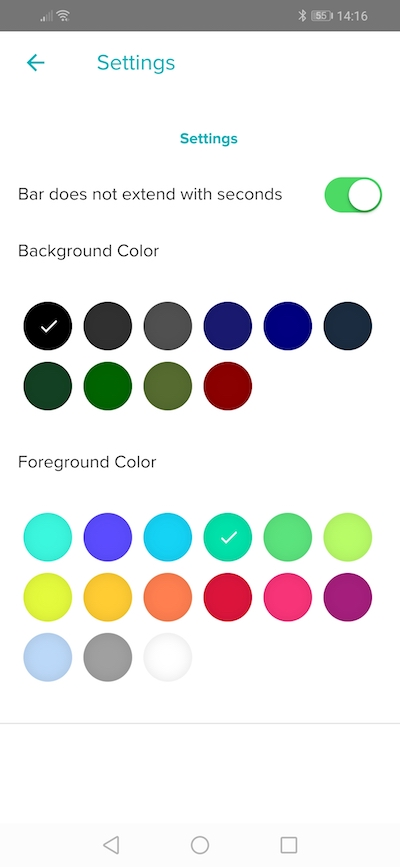
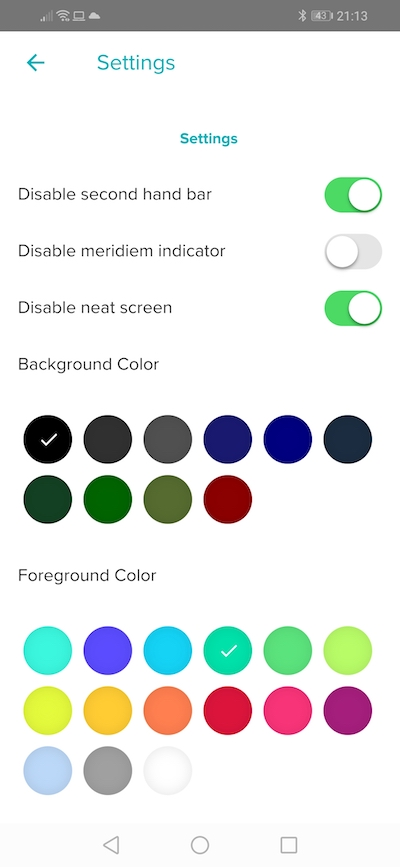
Add "neat" screen (#6)

diff --git a/app/index.ts b/app/index.ts
@@ -7,12 +7,14 @@ import {BodyPresenceSensor} from "body-presence";
 import {HeartRateSensor} from "heart-rate";
 import {today} from "user-activity";
 import * as messaging from "messaging";
+import {display} from "display";
 
 // Update the clock every minute
 clock.granularity = "seconds";
 
 // Get a handle on the <text> element
 const rootElement = document.getElementById("root") as ContainerElement;
+const backgroundElement = document.getElementById("background") as ContainerElement;
 const hoursElement = document.getElementById("hours") as TextElement;
 const minsElement = document.getElementById("minutes") as TextElement;
 const ampmElement = document.getElementById("ampm") as TextElement;
@@ -26,7 +28,11 @@ const calsElement = document.getElementById("cals") as TextElement;
 const backgroundElements = document.getElementsByClassName("background");
 const coloredElements = document.getElementsByClassName("colored");
 
+const hiddenElements = document.getElementsByClassName("hide");
+
+let enableNeat = true;
 let lastDate: Date;
+let foregroundColor = 'fb-aqua';
 
 function updateSecondHand(date: Date) {
     let middle = rootElement.width / 2;
@@ -36,6 +42,15 @@ function updateSecondHand(date: Date) {
     }
     sepElement.x1 = middle - secondHand;
     sepElement.x2 = middle + secondHand;
+}
+
+function toggleDisplay(on: boolean) {
+    hiddenElements.forEach(value => {
+        ((value as unknown) as Styled).style.opacity = on ? 1 : 0;
+    });
+    coloredElements.forEach(value => {
+        ((value as unknown) as Styled).style.fill = on ? foregroundColor : 'white';
+    })
 }
 
 // Update the <text> element every tick with the current time
@@ -76,24 +91,41 @@ if (me.permissions.granted("access_activity")) {
     body.start();
 }
 
-messaging.peerSocket.onmessage = function (evt) {
-    if (evt.data.key === "backgroundColor") {
-        backgroundElements.forEach(value => {
-            ((value as unknown) as Styled).style.fill = evt.data.value;
-        });
-    }
-    if (evt.data.key === "foregroundColor") {
-        coloredElements.forEach(value => {
-            ((value as unknown) as Styled).style.fill = evt.data.value;
-        });
-    }
-    if (evt.data.key === "disableSeconds") {
-        clock.granularity = evt.data.value ? "minutes" : "seconds";
-        if (evt.data.value) {
-            updateSecondHand(lastDate);
-        }
-    }
-    if (evt.data.key === "disableMeridiem") {
-        ampmElement.style.opacity = evt.data.value ? 0 : 100;
+messaging.peerSocket.onmessage = evt => {
+    switch (evt.data.key) {
+        case "backgroundColor":
+            backgroundElements.forEach(value => {
+                ((value as unknown) as Styled).style.fill = evt.data.value;
+            });
+            break;
+        case "foregroundColor":
+            foregroundColor = evt.data.value;
+            coloredElements.forEach(value => {
+                ((value as unknown) as Styled).style.fill = evt.data.value;
+            });
+            break;
+        case "disableSeconds":
+            clock.granularity = evt.data.value ? "minutes" : "seconds";
+            if (evt.data.value) {
+                updateSecondHand(lastDate);
+            }
+            break;
+        case "disableMeridiem":
+            ampmElement.style.opacity = evt.data.value ? 0 : 1;
+            break;
+        case "disableNeat":
+            enableNeat = !evt.data.value;
+            toggleDisplay(evt.data.value);
+            break;
     }
 };
+
+display.onchange = () => {
+    enableNeat && toggleDisplay(false);
+};
+
+backgroundElement.onmouseup = () => {
+    toggleDisplay(true);
+};
+
+toggleDisplay(true);

diff --git a/settings/index.tsx b/settings/index.tsx
@@ -5,11 +5,15 @@ function settings(props: any) {
                 title={<Text bold align="center">Settings</Text>}>
                 <Toggle
                     settingsKey="disableSeconds"
-                    label="Bar does not extend with seconds"
+                    label="Disable second hand bar"
                 />
                 <Toggle
                     settingsKey="disableMeridiem"
-                    label="Disable meridiem indicator (12h format only)"
+                    label="Disable meridiem indicator"
+                />
+                <Toggle
+                    settingsKey="disableNeat"
+                    label="Disable neat screen"
                 />
                 <Text align="left">Background Color</Text>
                 <ColorSelect

diff --git a/app/time.ts b/app/time.ts
@@ -14,6 +14,10 @@ const weekdaysTable: {[k: string]: string[]} = {
     'en': ['sun', 'mon', 'tue', 'wed', 'thu', 'fri', 'sat'],
     'fr': ['dim', 'lun', 'mar', 'mer', 'jeu', 'ven', 'sam'],
 };
+const midnightTable: {[k: string]: string} = {
+    'en': 'midnight',
+    'fr': 'minuit'
+};
 
 export function getDateInWordsInstance(is12h: boolean, date: Date, locale: string) {
     if (is12h) {
@@ -87,7 +91,7 @@ export class DateTimeInWords24h extends DateTimeInWords12h {
     }
 
     formatHours(): string {
-        return this.formatNumber(this.date.getHours()) || "midnight";
+        return this.formatNumber(this.date.getHours()) || midnightTable[this.language];
     }
 
     formatMinutes(): string {

diff --git a/resources/styles.css b/resources/styles.css
@@ -76,3 +76,7 @@
 .contrasted {
     fill: fb-white;
 }
+
+.hide {
+    opacity: 0;
+}

diff --git a/README.md b/README.md
@@ -15,6 +15,7 @@ A Fitbit clock face inspired by vurggodzns' [digitless](https://www.facer.io/wat
 ![fr](docs/screenshots/fr-ionic.png)
 
 ##### Settings
+
 ![settings](docs/screenshots/settings.jpg)
 
 ## License
@@ -25,9 +26,16 @@ Design is exclusive property of [vurggodzns](https://www.facer.io/user/XLR9AscBP
 
 ## Features
 
-##### Second-hand
+##### Second-hand bar
 
-The middle bar grows with seconds.
+The middle bar grows with seconds from the middle of the screen.
+
+##### Neat first screen
+
+If activated, only the hours appear in a white font at screen wake-up.
+Middle bar, colors, indicators and date reveal on user "click".
+
+![neat](docs/screenshots/neat.png)
 
 ##### Customizable colors
 
@@ -39,14 +47,9 @@ Background and text colors are customizables.
 
 While the original design has pretty nice fonts, this version sticks to the defaults FitbitOS fonts, with a disappointing feeling.
 
-##### Cleaner first screen
-
-As in original design, only the hours should appear in a white font at screen wake-up.
-Middle bar, indicators and date should reveal on user "click". 
-
 ##### Customizable indicators
 
-Today, the heartrates, steps and calories indicators are hard-coded in this order.
+As of today, the heartrates, steps and calories indicators are hard-coded in this order.
 
 More indicators could be supported and reordering could be permitted.
 
